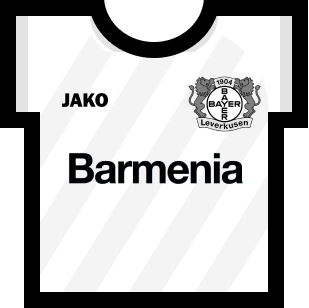
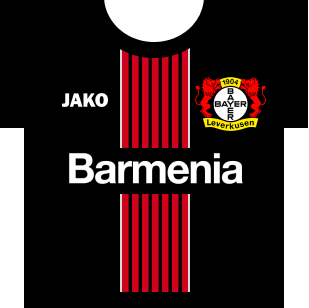
Updated kits and away kit predictor

diff --git a/docs/js/main.min.js b/docs/js/main.min.js
@@ -1,1 +1,1 @@
-function dataFixture(){var e=this,a=[];e.matchesURI="https://api.football-data.org/v2/competitions/2002/matches",e.matchdayURI="https://api.football-data.org/v2/competitions",e.ajax=function(e,a,t){var n={url:e,type:a,accepts:"application/json",cache:!1,dataType:"json",data:JSON.stringify(t),headers:{"X-Auth-Token":"5c8b70988e784fca8186b93d38b1bae7"},error:function(e){console.log("ajax error "+e.status)}};return $.ajax(n)},e.ajax(e.matchdayURI,"GET").done(function(e){var t=e.competitions;for(i=0;i<t.length;i++){const n=t[i];2002==n.id&&a.push(n.currentSeason.currentMatchday)}}),e.ajax(e.matchesURI,"GET").done(function(e){var t=e.matches,n=(new Date,new Date("2018-04-24"),[]),r=a[0];for($(".js-fixture-round").text(r+". Spieltag"),i=0;i<t.length;i++){const s=t[i];s.matchday==r&&n.push(s)}for(console.log(e),i=0;i<n.length;i++){const s=n[i];fixtureItem(s)}})}function dataLadder(){var e=this;e.ajax=function(e,a,t){var n={url:e,type:a,accepts:"application/json",cache:!1,dataType:"json",data:JSON.stringify(t),headers:{"X-Auth-Token":"5c8b70988e784fca8186b93d38b1bae7"},error:function(e){console.log("ajax error "+e.status)}};return $.ajax(n)},e.tasksURI="https://api.football-data.org/v2/competitions/2002/standings",e.ajax(e.tasksURI,"GET").done(function(e){var a=e.standings[0].table;for(console.log(a),i=0;i<a.length;i++){ladderItem(a[i],i+1)}})}function data(){dataFixture(),dataLadder()}function dateTime(e){var a=new Date(e),t=a.getDate();return{day:function(e){var a=e.getDay();return 0==a?"Sonntag":1==a?"Montag":2==a?"Dienstag":3==a?"Mittwoch":4==a?"Donnerstag":5==a?"Freitag":6==a?"Samstag":void 0}(a),month:function(e){var a=e.getMonth();return 0==a?"Jan":1==a?"Feb":2==a?"Mär":3==a?"Apr":4==a?"Mai":5==a?"Jun":6==a?"Jul":7==a?"Aug":8==a?"Sep":9==a?"Okt":10==a?"Nov":11==a?"Dez":void 0}(a),date:t,time:function(e){return e.getHours()+":"+("0"+e.getMinutes()).slice(-2)}(a)}}function fixtureItem(e){var a=dateTime(e.utcDate),t=e.status;"IN_PLAY"==t?$(".js-fixture").before('<div class="c-fixture__game c-fixture__game--in-progress"><div class= "c-fixture__date c-date" ><span class="c-date__day">'+a.day+'</span><span class="c-date__month">'+a.month+'</span><span class="c-date__date">'+a.date+'</span><span class="c-date__time">LIVE</span></div ><div class="c-fixture__team js-fixture-team-1"><img class="js-team-img" src="'+kitImg(e.homeTeam.name,e.awayTeam.name,"Home")+'" /><span class="js-team-text">'+teamAbrev(e.homeTeam.name)[0].name+'</span><span class="c-fixture__score js-score-text">'+e.score.fullTime.homeTeam+'</span></div><div class="c-fixture__vs">vs</div><div class="c-fixture__team js-fixture-team-2"><img class="js-team-img" src="'+kitImg(e.homeTeam.name,e.awayTeam.name,"Away")+'" /><span class="js-team-text">'+teamAbrev(e.awayTeam.name)[0].name+'</span><span class="c-fixture__score js-score-text">'+e.score.fullTime.awayTeam+'</span></div><div class="c-fixture__venue js-fixture-venue"></div></div>'):"PAUSED"==t?$(".js-fixture").before('<div class="c-fixture__game c-fixture__game--in-progress"><div class= "c-fixture__date c-date" ><span class="c-date__day">'+a.day+'</span><span class="c-date__month">'+a.month+'</span><span class="c-date__date">'+a.date+'</span><span class="c-date__time">HT</span></div ><div class="c-fixture__team js-fixture-team-1"><img class="js-team-img" src="'+kitImg(e.homeTeam.name,e.awayTeam.name,"Home")+'" /><span class="js-team-text">'+teamAbrev(e.homeTeam.name)[0].name+'</span><span class="c-fixture__score js-score-text">'+e.score.fullTime.homeTeam+'</span></div><div class="c-fixture__vs">vs</div><div class="c-fixture__team js-fixture-team-2"><img class="js-team-img" src="'+kitImg(e.homeTeam.name,e.awayTeam.name,"Away")+'" /><span class="js-team-text">'+teamAbrev(e.awayTeam.name)[0].name+'</span><span class="c-fixture__score js-score-text">'+e.score.fullTime.awayTeam+'</span></div><div class="c-fixture__venue js-fixture-venue"></div></div>'):"FINISHED"==t?$(".js-fixture").before('<div class="c-fixture__game c-fixture__game--completed"><div class= "c-fixture__date c-date" ><span class="c-date__day">'+a.day+'</span><span class="c-date__month">'+a.month+'</span><span class="c-date__date">'+a.date+'</span><span class="c-date__time">FT</span></div ><div class="c-fixture__team js-fixture-team-1"><img class="js-team-img" src="'+kitImg(e.homeTeam.name,e.awayTeam.name,"Home")+'" /><span class="js-team-text">'+teamAbrev(e.homeTeam.name)[0].name+'</span><span class="c-fixture__score js-score-text">'+e.score.fullTime.homeTeam+'</span></div><div class="c-fixture__vs">vs</div><div class="c-fixture__team js-fixture-team-2"><img class="js-team-img" src="'+kitImg(e.homeTeam.name,e.awayTeam.name,"Away")+'" /><span class="js-team-text">'+teamAbrev(e.awayTeam.name)[0].name+'</span><span class="c-fixture__score js-score-text">'+e.score.fullTime.awayTeam+'</span></div><div class="c-fixture__venue js-fixture-venue"></div></div>'):$(".js-fixture").before('<div class="c-fixture__game"><div class= "c-fixture__date c-date" ><span class="c-date__day">'+a.day+'</span><span class="c-date__month">'+a.month+'</span><span class="c-date__date">'+a.date+'</span><span class="c-date__time">'+a.time+'</span></div ><div class="c-fixture__team js-fixture-team-1"><img class="js-team-img" src="'+kitImg(e.homeTeam.name,e.awayTeam.name,"Home")+'" /><span class="js-team-text">'+teamAbrev(e.homeTeam.name)[0].name+'</span><span class="c-fixture__score js-score-text">-</span></div><div class="c-fixture__vs">vs</div><div class="c-fixture__team js-fixture-team-2"><img class="js-team-img" src="'+kitImg(e.homeTeam.name,e.awayTeam.name,"Away")+'" /><span class="js-team-text">'+teamAbrev(e.awayTeam.name)[0].name+'</span><span class="c-fixture__score js-score-text">-</span></div><div class="c-fixture__venue js-fixture-venue"></div></div>')}function kitImg(e,a,t){if("Home"==t){if("1. FC Nürnberg"==e)return"img/teams/Nuernberg/Home.png";if("1. FSV Mainz 05"==e)return"img/teams/Mainz/Home.png";if("Bayer 04 Leverkusen"==e)return"img/teams/Leverkusen/Home.png";if("BV Borussia 09 Dortmund"==e)return"img/teams/Dortmund/Home.png";if("Borussia Mönchengladbach"==e)return"img/teams/Gladbach/Home.png";if("Eintracht Frankfurt"==e)return"img/teams/Frankfurt/Home.png";if("FC Augsburg"==e)return"img/teams/Augsburg/Home.png";if("FC Bayern München"==e)return"img/teams/Bayern/Home.png";if("FC Schalke 04"==e)return"img/teams/Schalke/Home.png";if("TSV Fortuna 95 Düsseldorf"==e)return"img/teams/Duesseldorf/Home.png";if("Hannover 96"==e)return"img/teams/Hannover/Home.png";if("Hertha BSC"==e)return"img/teams/Hertha/Home.png";if("RB Leipzig"==e)return"img/teams/Leipzig/Home.png";if("SC Freiburg"==e)return"img/teams/Freiburg/Home.png";if("TSG 1899 Hoffenheim"==e)return"img/teams/Hoffenheim/Home.png";if("VfB Stuttgart"==e)return"img/teams/Stuttgart/Home.png";if("VfL Wolfsburg"==e)return"img/teams/Wolfsburg/Home.png";if("SV Werder Bremen"==e)return"img/teams/Bremen/Home.png";if("SC Paderborn 07"==e)return"img/teams/Paderborn/Home.png";if("1. FC Köln"==e)return"img/teams/Koeln/Home.png";if("1. FC Union Berlin"==e)return"img/teams/Union/Home.png"}else if("Away"==t){if("1. FC Nürnberg"==a)return"VfB Stuttgart"==e||"Borussia Mönchengladbach"==e||"FC Augsburg"==e||"RB Leipzig"==e||"TSV Fortuna 95 Düsseldorf"==e?"img/teams/Nuernberg/Home.png":"img/teams/Nuernberg/Away.png";if("1. FSV Mainz 05"==a)return"FC Schalke 04"==e||"Hertha BSC"==e||"TSG 1899 Hoffenheim"==e?"img/teams/Mainz/Third.png":"img/teams/Mainz/Away.png";if("Bayer 04 Leverkusen"==a)return"VfB Stuttgart"==e||"Borussia Mönchengladbach"==e||"FC Augsburg"==e||"RB Leipzig"==e||"TSV Fortuna 95 Düsseldorf"==e?"img/teams/Leverkusen/Third.png":"img/teams/Leverkusen/Away.png";if("BV Borussia 09 Dortmund"==a)return"Eintracht Frankfurt"==e||"Bayer Leverkusen"==e?"img/teams/Dortmund/Home.png":"img/teams/Dortmund/Away.png";if("Borussia Mönchengladbach"==a)return"FC Schalke 04"==e||"Hertha BSC"==e||"TSG 1899 Hoffenheim"==e?"img/teams/Gladbach/Home.png":"img/teams/Gladbach/Away.png";if("Eintracht Frankfurt"==a)return"VfB Stuttgart"==e||"Borussia Mönchengladbach"==e||"FC Augsburg"==e||"RB Leipzig"==e||"TSV Fortuna 95 Düsseldorf"==e?"img/teams/Frankfurt/Third.png":"img/teams/Frankfurt/Away.png";if("FC Augsburg"==a)return"Eintracht Frankfurt"==e?"img/teams/Augsburg/Third.png":"img/teams/Augsburg/Away.png";if("FC Bayern München"==a)return"VfB Stuttgart"==e||"Borussia Mönchengladbach"==e||"FC Augsburg"==e||"RB Leipzig"==e||"TSV Fortuna 95 Düsseldorf"==e?"img/teams/Bayern/Home.png":"img/teams/Bayern/Away.png";if("FC Schalke 04"==a)return"VfB Stuttgart"==e||"Borussia Mönchengladbach"==e||"FC Augsburg"==e||"RB Leipzig"==e||"TSV Fortuna 95 Düsseldorf"==e?"img/teams/Schalke/Home.png":"img/teams/Schalke/Away.png";if("TSV Fortuna 95 Düsseldorf"==a)return"SC Freiburg"==e||"FC Bayern München"==e||"1. FC Nürnberg"==e||"1. FSV Mainz 05"==e||"Hannover 96"==e||"TSV Fortuna 95 Düsseldorf"==e||"1. FC Union Berlin"==e?"img/teams/Duesseldorf/Third.png":"img/teams/Duesseldorf/Away.png";if("Hannover 96"==a)return"Eintracht Frankfurt"==e||"Bayer Leverkusen"==e?"img/teams/Hannover/Third.png":"img/teams/Hannover/Away.png";if("Hertha BSC"==a)return"Eintracht Frankfurt"==e||"Bayer 04 Leverkusen"==e||"SC Freiburg"==e||"FC Bayern München"==e||"1. FC Nürnberg"==e||"1. FSV Mainz 05"==e||"Hannover 96"==e||"TSV Fortuna 95 Düsseldorf"==e||"1. FC Union Berlin"==e?"img/teams/Hertha/Home.png":"img/teams/Hertha/Away.png";if("RB Leipzig"==a)return"Eintracht Frankfurt"==e||"Bayer 04 Leverkusen"==e||"FC Schalke 04"==e||"Hertha BSC"==e||"TSG 1899 Hoffenheim"==e?"img/teams/Leipzig/Home.png":"img/teams/Leipzig/Away.png";if("SC Freiburg"==a)return"VfB Stuttgart"==e||"Borussia Mönchengladbach"==e||"FC Augsburg"==e||"RB Leipzig"==e||"TSV Fortuna 95 Düsseldorf"==e?"img/teams/Freiburg/Third.png":"img/teams/Freiburg/Away.png";if("TSG 1899 Hoffenheim"==a)return"VfB Stuttgart"==e||"Borussia Mönchengladbach"==e||"FC Augsburg"==e||"RB Leipzig"==e?"img/teams/Hoffenheim/Third.png":"img/teams/Hoffenheim/Away.png";if("VfB Stuttgart"==a)return"SC Freiburg"==e||"FC Bayern München"==e||"1. FC Nürnberg"==e||"1. FSV Mainz 05"==e||"Hannover 96"==e||"TSV Fortuna 95 Düsseldorf"==e?"img/teams/Stuttgart/Third.png":"img/teams/Stuttgart/Away.png";if("VfL Wolfsburg"==a)return"FC Schalke 04"==e||"Hertha BSC"==e||"TSG 1899 Hoffenheim"==e?"img/teams/Wolfsburg/Third.png":"img/teams/Wolfsburg/Away.png";if("SV Werder Bremen"==a)return"VfB Stuttgart"==e||"Borussia Mönchengladbach"==e||"FC Augsburg"==e||"RB Leipzig"==e||"TSV Fortuna 95 Düsseldorf"==e?"img/teams/Bremen/Home.png":"img/teams/Bremen/Away.png";if("SC Paderborn 07"==a)return"VfB Stuttgart"==e||"Borussia Mönchengladbach"==e||"FC Augsburg"==e||"RB Leipzig"==e||"TSV Fortuna 95 Düsseldorf"==e?"img/teams/Paderborn/Third.png":"img/teams/Paderborn/Away.png";if("1. FC Köln"==a)return"SC Freiburg"==e||"FC Bayern München"==e||"1. FC Nürnberg"==e||"1. FSV Mainz 05"==e||"Hannover 96"==e||"TSV Fortuna 95 Düsseldorf"==e||"1. FC Union Berlin"==e?"img/teams/Koeln/Third.png":"img/teams/Koeln/Away.png";if("1. FC Union Berlin"==a)return"VfB Stuttgart"==e||"Borussia Mönchengladbach"==e||"FC Augsburg"==e||"RB Leipzig"==e?"img/teams/Union/Third.png":"img/teams/Union/Away.png"}}function ladderItem(e,a){$(".c-ladder__item-"+a+" div.c-ladder__team").children("span").text(teamAbrev(e.team.name)[0].name),$(".c-ladder__item-"+a+" div.c-ladder__team").children("img").attr("src",teamImg(e.team.name)),$(".c-ladder__item-"+a+" div.c-ladder__played").text(e.playedGames),$(".c-ladder__item-"+a+" div.c-ladder__wins").text(e.won),$(".c-ladder__item-"+a+" div.c-ladder__losses").text(e.lost),$(".c-ladder__item-"+a+" div.c-ladder__draws").text(e.draw),$(".c-ladder__item-"+a+" div.c-ladder__points-for").text(e.goalsFor),$(".c-ladder__item-"+a+" div.c-ladder__points-against").text(e.goalsAgainst),$(".c-ladder__item-"+a+" div.c-ladder__percentage").text(e.goalDifference),$(".c-ladder__item-"+a+" div.c-ladder__points").text(e.points)}function roundCalc(e){var a=new Date(e),t=a.getMonth(),n=a.getDate(),r=a.getFullYear();return"2018"==r&&t<=7&&n<=27?1:"2018"==r&&7==t&&n<=31||"2018"==r&&8==t&&2==n?2:"2018"==r&&8==t&&n<=16?3:"2018"==r&&8==t&&n<=23?4:"2018"==r&&8==t&&n<=26?5:"2018"==r&&8==t&&n<=30?6:"2018"==r&&9==t&&n<=7?7:"2018"==r&&9==t&&n<=21?8:"2018"==r&&9==t&&n<=28?9:"2018"==r&&9==t&&n<=31||"2018"==r&&10==t&&n<=4?10:"2018"==r&&10==t&&n<=11?11:"2018"==r&&10==t&&n<=25?12:"2018"==r&&10==t&&n<=31||"2018"==r&&11==t&&n<=3?13:"2018"==r&&11==t&&n<=9?14:"2018"==r&&11==t&&n<=16?15:"2018"==r&&11==t&&n<=19?16:"2018"==r&&11==t&&n<=23?17:"2019"==r&&0==t&&n<=20?18:"2019"==r&&0==t&&n<=27?19:"2019"==r&&0==t&&n<=31||"2019"==r&&1==t&&n<=3?20:"2019"==r&&1==t&&n<=10?21:"2019"==r&&1==t&&n<=18?22:"2019"==r&&1==t&&n<=25?23:"2019"==r&&1==t&&n<=25?24:"2019"==r&&1==t&&n<=31||"2019"==r&&1==t?25:"2019"==r&&2==t&&n<=11?26:void 0}function teamAbrev(e){var a=e;return"Eintracht Frankfurt"==a?[{code:"SGE",name:"Frankfurt"}]:"BV Borussia 09 Dortmund"==a?[{code:"BVB",name:"Dortmund"}]:"VfB Stuttgart"==a?[{code:"STU",name:"Stuttgart"}]:"FC Schalke 04"==a?[{code:"S04",name:"Schalke"}]:"1. FC Nürnberg"==a?[{code:"FCN",name:"Nürnberg"}]:"SV Werder Bremen"==a?[{code:"SVW",name:"Bremen"}]:"Hertha BSC"==a?[{code:"BSC",name:"Berlin"}]:"Hannover 96"==a?[{code:"HAN",name:"Hannover"}]:"Borussia Mönchengladbach"==a?[{code:"BMG",name:"Gladbach"}]:"FC Bayern München"==a?[{code:"MUN",name:"Bayern"}]:"TSV Fortuna 95 Düsseldorf"==a?[{code:"DUS",name:"Düsseldorf"}]:"Bayer 04 Leverkusen"==a?[{code:"B04",name:"Leverkusen"}]:"SC Freiburg"==a?[{code:"SCF",name:"Freiburg"}]:"VfL Wolfsburg"==a?[{code:"WOB",name:"Wolfsburg"}]:"1. FSV Mainz 05"==a?[{code:"MAI",name:"Mainz"}]:"TSG 1899 Hoffenheim"==a?[{code:"TSG",name:"Hoffenheim"}]:"FC Augsburg"==a?[{code:"AUG",name:"Augsburg"}]:"RB Leipzig"==a?[{code:"RBL",name:"Leipzig"}]:"SC Paderborn 07"==a?[{code:"PAD",name:"Paderborn"}]:"1. FC Köln"==a?[{code:"KLN",name:"Köln"}]:"1. FC Union Berlin"==a?[{code:"UNB",name:"Union"}]:void 0}function teamImg(e){return"1. FC Nürnberg"==e?"img/teams/Nuernberg/Logo.png":"1. FSV Mainz 05"==e?"img/teams/Mainz/Logo.png":"Bayer 04 Leverkusen"==e?"img/teams/Leverkusen/Logo.png":"BV Borussia 09 Dortmund"==e?"img/teams/Dortmund/Logo.png":"Borussia Mönchengladbach"==e?"img/teams/Gladbach/Logo.png":"Eintracht Frankfurt"==e?"img/teams/Frankfurt/Logo.png":"FC Augsburg"==e?"img/teams/Augsburg/Logo.png":"FC Bayern München"==e?"img/teams/Bayern/Logo.png":"FC Schalke 04"==e?"img/teams/Schalke/Logo.png":"TSV Fortuna 95 Düsseldorf"==e?"img/teams/Duesseldorf/Logo.png":"Hannover 96"==e?"img/teams/Hannover/Logo.png":"Hertha BSC"==e?"img/teams/Hertha/Logo.png":"RB Leipzig"==e?"img/teams/Leipzig/Logo.png":"SC Freiburg"==e?"img/teams/Freiburg/Logo.png":"TSG 1899 Hoffenheim"==e?"img/teams/Hoffenheim/Logo.png":"VfB Stuttgart"==e?"img/teams/Stuttgart/Logo.png":"VfL Wolfsburg"==e?"img/teams/Wolfsburg/Logo.png":"SV Werder Bremen"==e?"img/teams/Bremen/Logo.png":"SC Paderborn 07"==e?"img/teams/Paderborn/Logo.png":"1. FC Köln"==e?"img/teams/Koeln/Logo.png":"1. FC Union Berlin"==e?"img/teams/Union/Logo.png":void 0}function vertCenter(e,a){var t=e.parent().height();e.css({height:t+"px","line-height":t+"px"}),e.children(a).css({height:e.children(a).height(),"padding-top":(t-e.children(a).height())/2+"px","padding-bottom":(t-e.children(a).height())/2+"px"})}function clearStyles(e,a){e.attr("style",""),a.attr("style","")}data(),$(window).on("resize",function(){});
+function dataFixture(){var e=this,a=[];e.matchesURI="https://api.football-data.org/v2/competitions/2002/matches",e.matchdayURI="https://api.football-data.org/v2/competitions",e.ajax=function(e,a,t){var n={url:e,type:a,accepts:"application/json",cache:!1,dataType:"json",data:JSON.stringify(t),headers:{"X-Auth-Token":"5c8b70988e784fca8186b93d38b1bae7"},error:function(e){console.log("ajax error "+e.status)}};return $.ajax(n)},e.ajax(e.matchdayURI,"GET").done(function(e){var t=e.competitions;for(i=0;i<t.length;i++){const n=t[i];2002==n.id&&a.push(n.currentSeason.currentMatchday)}}),e.ajax(e.matchesURI,"GET").done(function(e){var t=e.matches,n=(new Date,new Date("2018-04-24"),[]),r=a[0];for($(".js-fixture-round").text(r+". Spieltag"),i=0;i<t.length;i++){const s=t[i];s.matchday==r&&n.push(s)}for(console.log(e),i=0;i<n.length;i++){const s=n[i];fixtureItem(s)}})}function dataLadder(){var e=this;e.ajax=function(e,a,t){var n={url:e,type:a,accepts:"application/json",cache:!1,dataType:"json",data:JSON.stringify(t),headers:{"X-Auth-Token":"5c8b70988e784fca8186b93d38b1bae7"},error:function(e){console.log("ajax error "+e.status)}};return $.ajax(n)},e.tasksURI="https://api.football-data.org/v2/competitions/2002/standings",e.ajax(e.tasksURI,"GET").done(function(e){var a=e.standings[0].table;for(console.log(a),i=0;i<a.length;i++){ladderItem(a[i],i+1)}})}function data(){dataFixture(),dataLadder()}function vertCenter(e,a){var t=e.parent().height();e.css({height:t+"px","line-height":t+"px"}),e.children(a).css({height:e.children(a).height(),"padding-top":(t-e.children(a).height())/2+"px","padding-bottom":(t-e.children(a).height())/2+"px"})}function clearStyles(e,a){e.attr("style",""),a.attr("style","")}function dateTime(e){var a=new Date(e),t=a.getDate();return{day:function(e){var a=e.getDay();return 0==a?"Sonntag":1==a?"Montag":2==a?"Dienstag":3==a?"Mittwoch":4==a?"Donnerstag":5==a?"Freitag":6==a?"Samstag":void 0}(a),month:function(e){var a=e.getMonth();return 0==a?"Jan":1==a?"Feb":2==a?"Mär":3==a?"Apr":4==a?"Mai":5==a?"Jun":6==a?"Jul":7==a?"Aug":8==a?"Sep":9==a?"Okt":10==a?"Nov":11==a?"Dez":void 0}(a),date:t,time:function(e){return e.getHours()+":"+("0"+e.getMinutes()).slice(-2)}(a)}}function fixtureItem(e){var a=dateTime(e.utcDate),t=e.status;"IN_PLAY"==t?$(".js-fixture").before('<div class="c-fixture__game c-fixture__game--in-progress"><div class= "c-fixture__date c-date" ><span class="c-date__day">'+a.day+'</span><span class="c-date__month">'+a.month+'</span><span class="c-date__date">'+a.date+'</span><span class="c-date__time">LIVE</span></div ><div class="c-fixture__team js-fixture-team-1"><img class="js-team-img" src="'+kitImg(e.homeTeam.name,e.awayTeam.name,"Home")+'" /><span class="js-team-text">'+teamAbrev(e.homeTeam.name)[0].name+'</span><span class="c-fixture__score js-score-text">'+e.score.fullTime.homeTeam+'</span></div><div class="c-fixture__vs">vs</div><div class="c-fixture__team js-fixture-team-2"><img class="js-team-img" src="'+kitImg(e.homeTeam.name,e.awayTeam.name,"Away")+'" /><span class="js-team-text">'+teamAbrev(e.awayTeam.name)[0].name+'</span><span class="c-fixture__score js-score-text">'+e.score.fullTime.awayTeam+'</span></div><div class="c-fixture__venue js-fixture-venue"></div></div>'):"PAUSED"==t?$(".js-fixture").before('<div class="c-fixture__game c-fixture__game--in-progress"><div class= "c-fixture__date c-date" ><span class="c-date__day">'+a.day+'</span><span class="c-date__month">'+a.month+'</span><span class="c-date__date">'+a.date+'</span><span class="c-date__time">HT</span></div ><div class="c-fixture__team js-fixture-team-1"><img class="js-team-img" src="'+kitImg(e.homeTeam.name,e.awayTeam.name,"Home")+'" /><span class="js-team-text">'+teamAbrev(e.homeTeam.name)[0].name+'</span><span class="c-fixture__score js-score-text">'+e.score.fullTime.homeTeam+'</span></div><div class="c-fixture__vs">vs</div><div class="c-fixture__team js-fixture-team-2"><img class="js-team-img" src="'+kitImg(e.homeTeam.name,e.awayTeam.name,"Away")+'" /><span class="js-team-text">'+teamAbrev(e.awayTeam.name)[0].name+'</span><span class="c-fixture__score js-score-text">'+e.score.fullTime.awayTeam+'</span></div><div class="c-fixture__venue js-fixture-venue"></div></div>'):"FINISHED"==t?$(".js-fixture").before('<div class="c-fixture__game c-fixture__game--completed"><div class= "c-fixture__date c-date" ><span class="c-date__day">'+a.day+'</span><span class="c-date__month">'+a.month+'</span><span class="c-date__date">'+a.date+'</span><span class="c-date__time">FT</span></div ><div class="c-fixture__team js-fixture-team-1"><img class="js-team-img" src="'+kitImg(e.homeTeam.name,e.awayTeam.name,"Home")+'" /><span class="js-team-text">'+teamAbrev(e.homeTeam.name)[0].name+'</span><span class="c-fixture__score js-score-text">'+e.score.fullTime.homeTeam+'</span></div><div class="c-fixture__vs">vs</div><div class="c-fixture__team js-fixture-team-2"><img class="js-team-img" src="'+kitImg(e.homeTeam.name,e.awayTeam.name,"Away")+'" /><span class="js-team-text">'+teamAbrev(e.awayTeam.name)[0].name+'</span><span class="c-fixture__score js-score-text">'+e.score.fullTime.awayTeam+'</span></div><div class="c-fixture__venue js-fixture-venue"></div></div>'):$(".js-fixture").before('<div class="c-fixture__game"><div class= "c-fixture__date c-date" ><span class="c-date__day">'+a.day+'</span><span class="c-date__month">'+a.month+'</span><span class="c-date__date">'+a.date+'</span><span class="c-date__time">'+a.time+'</span></div ><div class="c-fixture__team js-fixture-team-1"><img class="js-team-img" src="'+kitImg(e.homeTeam.name,e.awayTeam.name,"Home")+'" /><span class="js-team-text">'+teamAbrev(e.homeTeam.name)[0].name+'</span><span class="c-fixture__score js-score-text">-</span></div><div class="c-fixture__vs">vs</div><div class="c-fixture__team js-fixture-team-2"><img class="js-team-img" src="'+kitImg(e.homeTeam.name,e.awayTeam.name,"Away")+'" /><span class="js-team-text">'+teamAbrev(e.awayTeam.name)[0].name+'</span><span class="c-fixture__score js-score-text">-</span></div><div class="c-fixture__venue js-fixture-venue"></div></div>')}function kitImg(e,a,t){if("Home"==t){if("1. FC Nürnberg"==e)return"img/teams/Nuernberg/Home.png";if("1. FSV Mainz 05"==e)return"img/teams/Mainz/Home.png";if("Bayer 04 Leverkusen"==e)return"img/teams/Leverkusen/Home.png";if("BV Borussia 09 Dortmund"==e)return"img/teams/Dortmund/Home.png";if("Borussia Mönchengladbach"==e)return"img/teams/Gladbach/Home.png";if("Eintracht Frankfurt"==e)return"img/teams/Frankfurt/Home.png";if("FC Augsburg"==e)return"img/teams/Augsburg/Home.png";if("FC Bayern München"==e)return"img/teams/Bayern/Home.png";if("FC Schalke 04"==e)return"img/teams/Schalke/Home.png";if("TSV Fortuna 95 Düsseldorf"==e)return"img/teams/Duesseldorf/Home.png";if("Hannover 96"==e)return"img/teams/Hannover/Home.png";if("Hertha BSC"==e)return"img/teams/Hertha/Home.png";if("RB Leipzig"==e)return"img/teams/Leipzig/Home.png";if("SC Freiburg"==e)return"img/teams/Freiburg/Home.png";if("TSG 1899 Hoffenheim"==e)return"img/teams/Hoffenheim/Home.png";if("VfB Stuttgart"==e)return"img/teams/Stuttgart/Home.png";if("VfL Wolfsburg"==e)return"img/teams/Wolfsburg/Home.png";if("SV Werder Bremen"==e)return"img/teams/Bremen/Home.png";if("SC Paderborn 07"==e)return"img/teams/Paderborn/Home.png";if("1. FC Köln"==e)return"img/teams/Koeln/Home.png";if("1. FC Union Berlin"==e)return"img/teams/Union/Home.png"}else if("Away"==t){if("1. FC Nürnberg"==a)return"VfB Stuttgart"==e||"Borussia Mönchengladbach"==e||"FC Augsburg"==e||"RB Leipzig"==e||"TSV Fortuna 95 Düsseldorf"==e?"img/teams/Nuernberg/Home.png":"img/teams/Nuernberg/Away.png";if("1. FSV Mainz 05"==a)return"VfB Stuttgart"==e||"Borussia Mönchengladbach"==e||"FC Augsburg"==e||"RB Leipzig"==e||"TSV Fortuna 95 Düsseldorf"==e?"img/teams/Mainz/Third.png":"img/teams/Mainz/Away.png";if("Bayer 04 Leverkusen"==a)return"VfB Stuttgart"==e||"Borussia Mönchengladbach"==e||"FC Augsburg"==e||"RB Leipzig"==e||"TSV Fortuna 95 Düsseldorf"==e?"img/teams/Leverkusen/Third.png":"img/teams/Leverkusen/Away.png";if("BV Borussia 09 Dortmund"==a)return"Eintracht Frankfurt"==e||"VfL Wolfsburg"==e||"SC Paderborn 07"==e?"img/teams/Dortmund/Home.png":"img/teams/Dortmund/Away.png";if("Borussia Mönchengladbach"==a)return"FC Schalke 04"==e||"Hertha BSC"==e||"TSG 1899 Hoffenheim"==e?"img/teams/Gladbach/Home.png":"img/teams/Gladbach/Away.png";if("Eintracht Frankfurt"==a)return"VfB Stuttgart"==e||"Borussia Mönchengladbach"==e||"FC Augsburg"==e||"RB Leipzig"==e||"TSV Fortuna 95 Düsseldorf"==e?"img/teams/Frankfurt/Third.png":"img/teams/Frankfurt/Away.png";if("FC Augsburg"==a)return"Eintracht Frankfurt"==e||"VfL Wolfsburg"==e||"SC Paderborn 07"==e?"img/teams/Augsburg/Third.png":"img/teams/Augsburg/Away.png";if("FC Bayern München"==a)return"VfB Stuttgart"==e||"Borussia Mönchengladbach"==e||"FC Augsburg"==e||"RB Leipzig"==e||"TSV Fortuna 95 Düsseldorf"==e?"img/teams/Bayern/Home.png":"img/teams/Bayern/Away.png";if("FC Schalke 04"==a)return"VfB Stuttgart"==e||"Borussia Mönchengladbach"==e||"FC Augsburg"==e||"RB Leipzig"==e||"TSV Fortuna 95 Düsseldorf"==e?"img/teams/Schalke/Home.png":"img/teams/Schalke/Away.png";if("TSV Fortuna 95 Düsseldorf"==a)return"SC Freiburg"==e||"FC Bayern München"==e||"1. FC Nürnberg"==e||"1. FSV Mainz 05"==e||"Hannover 96"==e||"TSV Fortuna 95 Düsseldorf"==e||"1. FC Union Berlin"==e?"img/teams/Duesseldorf/Third.png":"img/teams/Duesseldorf/Away.png";if("Hannover 96"==a)return"Eintracht Frankfurt"==e||"VfL Wolfsburg"==e||"SC Paderborn 07"==e?"img/teams/Hannover/Third.png":"img/teams/Hannover/Away.png";if("Hertha BSC"==a)return"Eintracht Frankfurt"==e||"Bayer 04 Leverkusen"==e||"SC Freiburg"==e||"FC Bayern München"==e||"1. FC Nürnberg"==e||"1. FSV Mainz 05"==e||"Hannover 96"==e||"TSV Fortuna 95 Düsseldorf"==e||"1. FC Union Berlin"==e?"img/teams/Hertha/Home.png":"img/teams/Hertha/Away.png";if("RB Leipzig"==a)return"Eintracht Frankfurt"==e||"VfL Wolfsburg"==e||"SC Paderborn 07"==e||"Bayer 04 Leverkusen"==e||"FC Schalke 04"==e||"Hertha BSC"==e||"TSG 1899 Hoffenheim"==e?"img/teams/Leipzig/Home.png":"img/teams/Leipzig/Away.png";if("SC Freiburg"==a)return"VfB Stuttgart"==e||"Borussia Mönchengladbach"==e||"FC Augsburg"==e||"RB Leipzig"==e||"TSV Fortuna 95 Düsseldorf"==e?"img/teams/Freiburg/Third.png":"img/teams/Freiburg/Away.png";if("TSG 1899 Hoffenheim"==a)return"VfB Stuttgart"==e||"Borussia Mönchengladbach"==e||"FC Augsburg"==e||"RB Leipzig"==e?"img/teams/Hoffenheim/Third.png":"img/teams/Hoffenheim/Away.png";if("VfB Stuttgart"==a)return"SC Freiburg"==e||"FC Bayern München"==e||"1. FC Nürnberg"==e||"1. FSV Mainz 05"==e||"Hannover 96"==e||"TSV Fortuna 95 Düsseldorf"==e?"img/teams/Stuttgart/Third.png":"img/teams/Stuttgart/Away.png";if("VfL Wolfsburg"==a)return"FC Schalke 04"==e||"Hertha BSC"==e||"TSG 1899 Hoffenheim"==e?"img/teams/Wolfsburg/Third.png":"img/teams/Wolfsburg/Away.png";if("SV Werder Bremen"==a)return"VfB Stuttgart"==e||"Borussia Mönchengladbach"==e||"FC Augsburg"==e||"RB Leipzig"==e||"TSV Fortuna 95 Düsseldorf"==e?"img/teams/Bremen/Home.png":"img/teams/Bremen/Away.png";if("SC Paderborn 07"==a)return"VfB Stuttgart"==e||"Borussia Mönchengladbach"==e||"FC Augsburg"==e||"RB Leipzig"==e||"TSV Fortuna 95 Düsseldorf"==e?"img/teams/Paderborn/Third.png":"img/teams/Paderborn/Away.png";if("1. FC Köln"==a)return"SC Freiburg"==e||"FC Bayern München"==e||"1. FC Nürnberg"==e||"1. FSV Mainz 05"==e||"Hannover 96"==e||"TSV Fortuna 95 Düsseldorf"==e||"1. FC Union Berlin"==e?"img/teams/Koeln/Third.png":"img/teams/Koeln/Away.png";if("1. FC Union Berlin"==a)return"VfB Stuttgart"==e||"Borussia Mönchengladbach"==e||"FC Augsburg"==e||"RB Leipzig"==e?"img/teams/Union/Third.png":"img/teams/Union/Away.png"}}function ladderItem(e,a){$(".c-ladder__item-"+a+" div.c-ladder__team").children("span").text(teamAbrev(e.team.name)[0].name),$(".c-ladder__item-"+a+" div.c-ladder__team").children("img").attr("src",teamImg(e.team.name)),$(".c-ladder__item-"+a+" div.c-ladder__played").text(e.playedGames),$(".c-ladder__item-"+a+" div.c-ladder__wins").text(e.won),$(".c-ladder__item-"+a+" div.c-ladder__losses").text(e.lost),$(".c-ladder__item-"+a+" div.c-ladder__draws").text(e.draw),$(".c-ladder__item-"+a+" div.c-ladder__points-for").text(e.goalsFor),$(".c-ladder__item-"+a+" div.c-ladder__points-against").text(e.goalsAgainst),$(".c-ladder__item-"+a+" div.c-ladder__percentage").text(e.goalDifference),$(".c-ladder__item-"+a+" div.c-ladder__points").text(e.points)}function roundCalc(e){var a=new Date(e),t=a.getMonth(),n=a.getDate(),r=a.getFullYear();return"2018"==r&&t<=7&&n<=27?1:"2018"==r&&7==t&&n<=31||"2018"==r&&8==t&&2==n?2:"2018"==r&&8==t&&n<=16?3:"2018"==r&&8==t&&n<=23?4:"2018"==r&&8==t&&n<=26?5:"2018"==r&&8==t&&n<=30?6:"2018"==r&&9==t&&n<=7?7:"2018"==r&&9==t&&n<=21?8:"2018"==r&&9==t&&n<=28?9:"2018"==r&&9==t&&n<=31||"2018"==r&&10==t&&n<=4?10:"2018"==r&&10==t&&n<=11?11:"2018"==r&&10==t&&n<=25?12:"2018"==r&&10==t&&n<=31||"2018"==r&&11==t&&n<=3?13:"2018"==r&&11==t&&n<=9?14:"2018"==r&&11==t&&n<=16?15:"2018"==r&&11==t&&n<=19?16:"2018"==r&&11==t&&n<=23?17:"2019"==r&&0==t&&n<=20?18:"2019"==r&&0==t&&n<=27?19:"2019"==r&&0==t&&n<=31||"2019"==r&&1==t&&n<=3?20:"2019"==r&&1==t&&n<=10?21:"2019"==r&&1==t&&n<=18?22:"2019"==r&&1==t&&n<=25?23:"2019"==r&&1==t&&n<=25?24:"2019"==r&&1==t&&n<=31||"2019"==r&&1==t?25:"2019"==r&&2==t&&n<=11?26:void 0}function teamAbrev(e){var a=e;return"Eintracht Frankfurt"==a?[{code:"SGE",name:"Frankfurt"}]:"BV Borussia 09 Dortmund"==a?[{code:"BVB",name:"Dortmund"}]:"VfB Stuttgart"==a?[{code:"STU",name:"Stuttgart"}]:"FC Schalke 04"==a?[{code:"S04",name:"Schalke"}]:"1. FC Nürnberg"==a?[{code:"FCN",name:"Nürnberg"}]:"SV Werder Bremen"==a?[{code:"SVW",name:"Bremen"}]:"Hertha BSC"==a?[{code:"BSC",name:"Berlin"}]:"Hannover 96"==a?[{code:"HAN",name:"Hannover"}]:"Borussia Mönchengladbach"==a?[{code:"BMG",name:"Gladbach"}]:"FC Bayern München"==a?[{code:"MUN",name:"Bayern"}]:"TSV Fortuna 95 Düsseldorf"==a?[{code:"DUS",name:"Düsseldorf"}]:"Bayer 04 Leverkusen"==a?[{code:"B04",name:"Leverkusen"}]:"SC Freiburg"==a?[{code:"SCF",name:"Freiburg"}]:"VfL Wolfsburg"==a?[{code:"WOB",name:"Wolfsburg"}]:"1. FSV Mainz 05"==a?[{code:"MAI",name:"Mainz"}]:"TSG 1899 Hoffenheim"==a?[{code:"TSG",name:"Hoffenheim"}]:"FC Augsburg"==a?[{code:"AUG",name:"Augsburg"}]:"RB Leipzig"==a?[{code:"RBL",name:"Leipzig"}]:"SC Paderborn 07"==a?[{code:"PAD",name:"Paderborn"}]:"1. FC Köln"==a?[{code:"KLN",name:"Köln"}]:"1. FC Union Berlin"==a?[{code:"UNB",name:"Union"}]:void 0}function teamImg(e){return"1. FC Nürnberg"==e?"img/teams/Nuernberg/Logo.png":"1. FSV Mainz 05"==e?"img/teams/Mainz/Logo.png":"Bayer 04 Leverkusen"==e?"img/teams/Leverkusen/Logo.png":"BV Borussia 09 Dortmund"==e?"img/teams/Dortmund/Logo.png":"Borussia Mönchengladbach"==e?"img/teams/Gladbach/Logo.png":"Eintracht Frankfurt"==e?"img/teams/Frankfurt/Logo.png":"FC Augsburg"==e?"img/teams/Augsburg/Logo.png":"FC Bayern München"==e?"img/teams/Bayern/Logo.png":"FC Schalke 04"==e?"img/teams/Schalke/Logo.png":"TSV Fortuna 95 Düsseldorf"==e?"img/teams/Duesseldorf/Logo.png":"Hannover 96"==e?"img/teams/Hannover/Logo.png":"Hertha BSC"==e?"img/teams/Hertha/Logo.png":"RB Leipzig"==e?"img/teams/Leipzig/Logo.png":"SC Freiburg"==e?"img/teams/Freiburg/Logo.png":"TSG 1899 Hoffenheim"==e?"img/teams/Hoffenheim/Logo.png":"VfB Stuttgart"==e?"img/teams/Stuttgart/Logo.png":"VfL Wolfsburg"==e?"img/teams/Wolfsburg/Logo.png":"SV Werder Bremen"==e?"img/teams/Bremen/Logo.png":"SC Paderborn 07"==e?"img/teams/Paderborn/Logo.png":"1. FC Köln"==e?"img/teams/Koeln/Logo.png":"1. FC Union Berlin"==e?"img/teams/Union/Logo.png":void 0}data(),$(window).on("resize",function(){});

diff --git a/app/js/main.js b/app/js/main.js
@@ -122,6 +122,71 @@ function data() {
    dataFixture();
    dataLadder();
 }
+//
+// Layout - Vertically Centered
+// ==========================================================================
+
+// ***
+// This function vertically centers an object element within 
+// its parent element by calculating the height of the parent,
+// the height of the child and adding padding to the top and 
+// bottom of the child element.
+//
+// Parent Element
+// --------------
+// The parent element must be a jQuery object.
+// eg: $('.o-vert-center')
+//
+// Child Element
+// -------------
+// The child element must be a direct child of the parent and
+// be passed through the function with only its classname.
+// eg: '.o-vert-center__object'
+// *
+
+function vertCenter(element, child) {
+
+    var parentHeight = element.parent().height();
+    // This will give the element the same height
+    // and line-height as it's parent container.
+    element.css({
+        'height': parentHeight + 'px',
+        'line-height': parentHeight + 'px'
+    });
+    
+    element.children(child).css({
+        'height': element.children(child).height(),
+        'padding-top': ( parentHeight - element.children(child).height() )/2 + 'px',
+        'padding-bottom': ( parentHeight - element.children(child).height() )/2 + 'px'
+    });
+}
+
+function clearStyles(element, child) {
+    element.attr('style', '');
+    child.attr('style', '');
+}
+
+// Function applied to the following parent/child classes:
+// vertCenter($('.o-vert-center'), '.o-vert-center__object');
+
+// On window resize clear previous styles then re-run the function.
+$(window).on('resize', function() {
+    // clearStyles($('.o-vert-center'), $('.o-vert-center__object'));
+    // vertCenter($('.o-vert-center'), '.o-vert-center__object');
+});
+
+
+//
+// UI - Buttons
+// ==========================================================================
+
+// Variables
+// var gitButton = document.getElementById('js-button-github');
+
+// gitButton.addEventListener('click', function(){
+//     window.open('https://github.com/Toshibot/webapp-boilerplate', '_blank');
+// });
+
 
 function dateTime(d) {
 
@@ -381,15 +446,15 @@ function kitImg(homename,awayname,location){
                 return 'img/teams/Nuernberg/Away.png';
             }
 
-        // 1. FSV Mainz 05 - Blue
+        // 1. FSV Mainz 05 - White
         } else if (awayname == "1. FSV Mainz 05") {
-            if (homename == "FC Schalke 04" || homename == "Hertha BSC" || homename == "TSG 1899 Hoffenheim") {
+            if (homename == "VfB Stuttgart" || homename == "Borussia Mönchengladbach" || homename == "FC Augsburg" || homename == "RB Leipzig" || homename == "TSV Fortuna 95 Düsseldorf") {
                 return 'img/teams/Mainz/Third.png';
             } else {
                 return 'img/teams/Mainz/Away.png';
             }
 
-        // Bayer Leverkusen - White
+        // Bayer Leverkusen - Black
         } else if (awayname == "Bayer 04 Leverkusen") {
             if (homename == "VfB Stuttgart" || homename == "Borussia Mönchengladbach" || homename == "FC Augsburg" || homename == "RB Leipzig" || homename == "TSV Fortuna 95 Düsseldorf") {
                 return 'img/teams/Leverkusen/Third.png';
@@ -399,7 +464,7 @@ function kitImg(homename,awayname,location){
 
         // Borussia Dortmund - Black
         } else if (awayname == "BV Borussia 09 Dortmund") {
-            if (homename == "Eintracht Frankfurt" || homename == "Bayer Leverkusen"){
+            if (homename == "Eintracht Frankfurt" || homename == "VfL Wolfsburg" || homename == "SC Paderborn 07"){
                 return 'img/teams/Dortmund/Home.png';
             } else {
                 return 'img/teams/Dortmund/Away.png';
@@ -423,7 +488,7 @@ function kitImg(homename,awayname,location){
 
         // FC Augsburg - Black
         } else if (awayname == "FC Augsburg") {
-            if (homename == "Eintracht Frankfurt") {
+            if (homename == "Eintracht Frankfurt" || homename == "VfL Wolfsburg" || homename == "SC Paderborn 07") {
                 return 'img/teams/Augsburg/Third.png';
             } else {
                 return 'img/teams/Augsburg/Away.png';
@@ -455,7 +520,7 @@ function kitImg(homename,awayname,location){
 
         // Hannover 96 - Black
         } else if (awayname == "Hannover 96") {
-            if (homename == "Eintracht Frankfurt" || homename == "Bayer Leverkusen") {
+            if (homename == "Eintracht Frankfurt" || homename == "VfL Wolfsburg" || homename == "SC Paderborn 07") {
                 return 'img/teams/Hannover/Third.png';
             } else {
                 return 'img/teams/Hannover/Away.png';
@@ -471,7 +536,7 @@ function kitImg(homename,awayname,location){
 
         // RB Leipzig - Dark Blue (Black and Blue)
         } else if (awayname == "RB Leipzig") {
-            if (homename == "Eintracht Frankfurt" || homename == "Bayer 04 Leverkusen" || homename == "FC Schalke 04" || homename == "Hertha BSC" || homename == "TSG 1899 Hoffenheim") {
+            if (homename == "Eintracht Frankfurt" || homename == "VfL Wolfsburg" || homename == "SC Paderborn 07" || homename == "Bayer 04 Leverkusen" || homename == "FC Schalke 04" || homename == "Hertha BSC" || homename == "TSG 1899 Hoffenheim") {
                 return 'img/teams/Leipzig/Home.png';
             } else {
                 return 'img/teams/Leipzig/Away.png';
@@ -826,67 +891,3 @@ function teamImg(team) {
         return 'img/teams/Union/Logo.png';
     }
 }
-//
-// Layout - Vertically Centered
-// ==========================================================================
-
-// ***
-// This function vertically centers an object element within 
-// its parent element by calculating the height of the parent,
-// the height of the child and adding padding to the top and 
-// bottom of the child element.
-//
-// Parent Element
-// --------------
-// The parent element must be a jQuery object.
-// eg: $('.o-vert-center')
-//
-// Child Element
-// -------------
-// The child element must be a direct child of the parent and
-// be passed through the function with only its classname.
-// eg: '.o-vert-center__object'
-// *
-
-function vertCenter(element, child) {
-
-    var parentHeight = element.parent().height();
-    // This will give the element the same height
-    // and line-height as it's parent container.
-    element.css({
-        'height': parentHeight + 'px',
-        'line-height': parentHeight + 'px'
-    });
-    
-    element.children(child).css({
-        'height': element.children(child).height(),
-        'padding-top': ( parentHeight - element.children(child).height() )/2 + 'px',
-        'padding-bottom': ( parentHeight - element.children(child).height() )/2 + 'px'
-    });
-}
-
-function clearStyles(element, child) {
-    element.attr('style', '');
-    child.attr('style', '');
-}
-
-// Function applied to the following parent/child classes:
-// vertCenter($('.o-vert-center'), '.o-vert-center__object');
-
-// On window resize clear previous styles then re-run the function.
-$(window).on('resize', function() {
-    // clearStyles($('.o-vert-center'), $('.o-vert-center__object'));
-    // vertCenter($('.o-vert-center'), '.o-vert-center__object');
-});
-
-
-//
-// UI - Buttons
-// ==========================================================================
-
-// Variables
-// var gitButton = document.getElementById('js-button-github');
-
-// gitButton.addEventListener('click', function(){
-//     window.open('https://github.com/Toshibot/webapp-boilerplate', '_blank');
-// });

diff --git a/app/js/_dev/_functions/_kit-img.js b/app/js/_dev/_functions/_kit-img.js
@@ -77,15 +77,15 @@ function kitImg(homename,awayname,location){
                 return 'img/teams/Nuernberg/Away.png';
             }
 
-        // 1. FSV Mainz 05 - Blue
+        // 1. FSV Mainz 05 - White
         } else if (awayname == "1. FSV Mainz 05") {
-            if (homename == "FC Schalke 04" || homename == "Hertha BSC" || homename == "TSG 1899 Hoffenheim") {
+            if (homename == "VfB Stuttgart" || homename == "Borussia Mönchengladbach" || homename == "FC Augsburg" || homename == "RB Leipzig" || homename == "TSV Fortuna 95 Düsseldorf") {
                 return 'img/teams/Mainz/Third.png';
             } else {
                 return 'img/teams/Mainz/Away.png';
             }
 
-        // Bayer Leverkusen - White
+        // Bayer Leverkusen - Black
         } else if (awayname == "Bayer 04 Leverkusen") {
             if (homename == "VfB Stuttgart" || homename == "Borussia Mönchengladbach" || homename == "FC Augsburg" || homename == "RB Leipzig" || homename == "TSV Fortuna 95 Düsseldorf") {
                 return 'img/teams/Leverkusen/Third.png';
@@ -95,7 +95,7 @@ function kitImg(homename,awayname,location){
 
         // Borussia Dortmund - Black
         } else if (awayname == "BV Borussia 09 Dortmund") {
-            if (homename == "Eintracht Frankfurt" || homename == "Bayer Leverkusen"){
+            if (homename == "Eintracht Frankfurt" || homename == "VfL Wolfsburg" || homename == "SC Paderborn 07"){
                 return 'img/teams/Dortmund/Home.png';
             } else {
                 return 'img/teams/Dortmund/Away.png';
@@ -119,7 +119,7 @@ function kitImg(homename,awayname,location){
 
         // FC Augsburg - Black
         } else if (awayname == "FC Augsburg") {
-            if (homename == "Eintracht Frankfurt") {
+            if (homename == "Eintracht Frankfurt" || homename == "VfL Wolfsburg" || homename == "SC Paderborn 07") {
                 return 'img/teams/Augsburg/Third.png';
             } else {
                 return 'img/teams/Augsburg/Away.png';
@@ -151,7 +151,7 @@ function kitImg(homename,awayname,location){
 
         // Hannover 96 - Black
         } else if (awayname == "Hannover 96") {
-            if (homename == "Eintracht Frankfurt" || homename == "Bayer Leverkusen") {
+            if (homename == "Eintracht Frankfurt" || homename == "VfL Wolfsburg" || homename == "SC Paderborn 07") {
                 return 'img/teams/Hannover/Third.png';
             } else {
                 return 'img/teams/Hannover/Away.png';
@@ -167,7 +167,7 @@ function kitImg(homename,awayname,location){
 
         // RB Leipzig - Dark Blue (Black and Blue)
         } else if (awayname == "RB Leipzig") {
-            if (homename == "Eintracht Frankfurt" || homename == "Bayer 04 Leverkusen" || homename == "FC Schalke 04" || homename == "Hertha BSC" || homename == "TSG 1899 Hoffenheim") {
+            if (homename == "Eintracht Frankfurt" || homename == "VfL Wolfsburg" || homename == "SC Paderborn 07" || homename == "Bayer 04 Leverkusen" || homename == "FC Schalke 04" || homename == "Hertha BSC" || homename == "TSG 1899 Hoffenheim") {
                 return 'img/teams/Leipzig/Home.png';
             } else {
                 return 'img/teams/Leipzig/Away.png';
